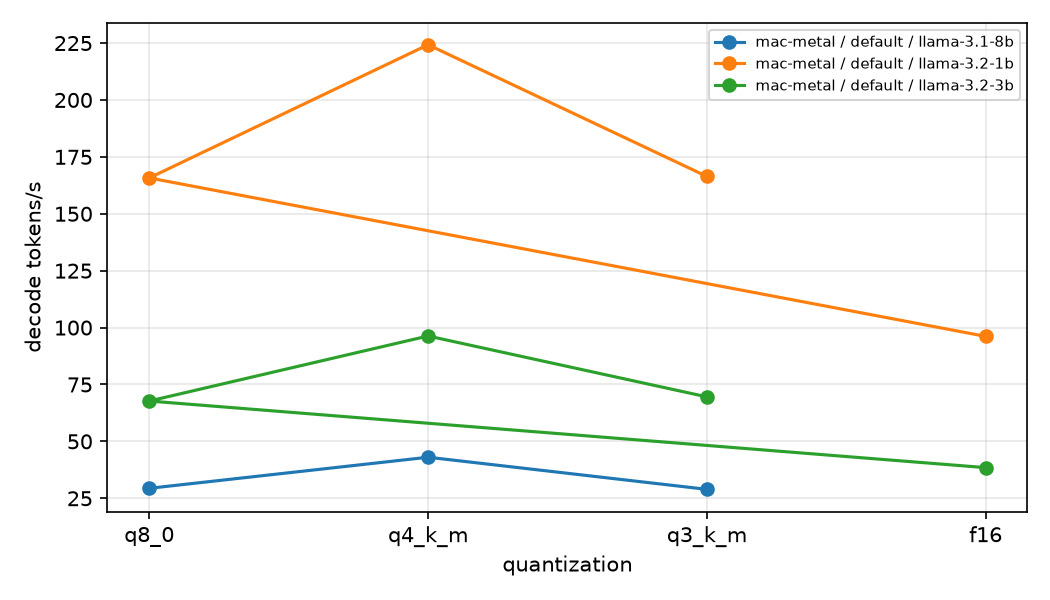
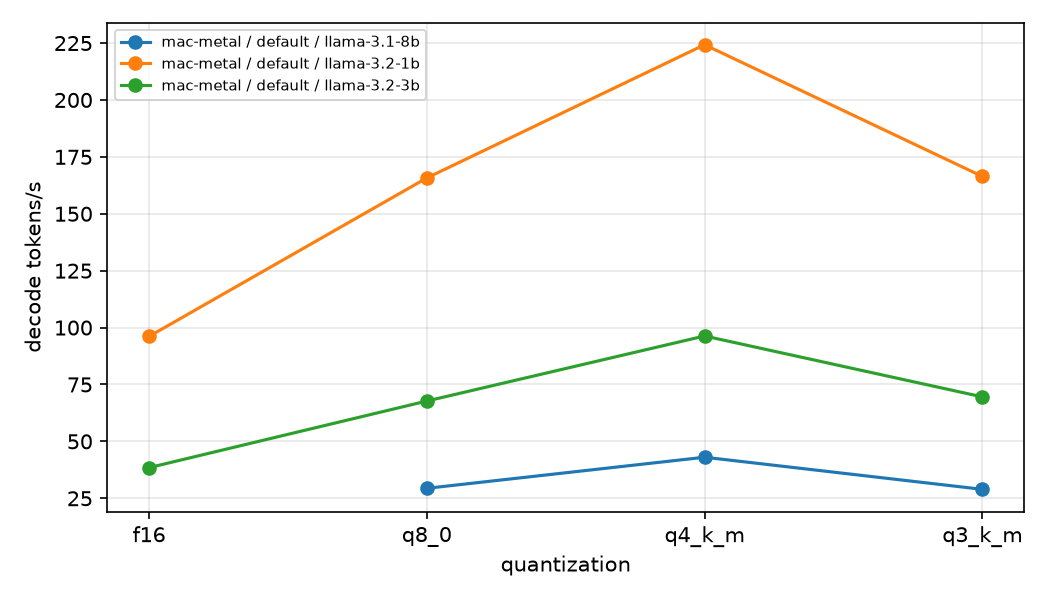
Add Llama-3.1-8B results (pre-made imatrix quants)

diff --git a/report/results.md b/report/results.md
@@ -1,15 +1,16 @@
-| Device | Power mode | Model | Quant | Size (GB) | Prefill t/s | Decode t/s | Mean W | J/token* | PPL |
-|---|---|---|---|---|---|---|---|---|---|
-| mac-metal | default | llama-3.1-8b | q8_0 | 8.53 | 378.6 | 29.4 | 32.89 | 1.119 | 7.12 |
-| mac-metal | default | llama-3.1-8b | q4_k_m | 4.91 | 363.7 | 43.0 | 31.39 | 0.729 | 7.30 |
-| mac-metal | default | llama-3.1-8b | q3_k_m | 4.01 | 341.8 | 28.9 | 35.23 | 1.218 | 7.64 |
-| mac-metal | default | llama-3.2-1b | f16 | 2.47 | 2847.2 | 96.1 | 28.35 | 0.295 | 14.34 |
-| mac-metal | default | llama-3.2-1b | q8_0 | 1.31 | 2717.1 | 165.7 | 32.16 | 0.194 | 14.35 |
-| mac-metal | default | llama-3.2-1b | q4_k_m | 0.80 | 2603.3 | 224.3 | 29.98 | 0.134 | 14.89 |
-| mac-metal | default | llama-3.2-1b | q3_k_m | 0.68 | 2499.6 | 166.4 | 32.83 | 0.197 | 16.91 |
-| mac-metal | default | llama-3.2-3b | f16 | 6.43 | 983.9 | 38.5 | 37.08 | 0.964 | 10.57 |
-| mac-metal | default | llama-3.2-3b | q8_0 | 3.41 | 931.5 | 67.7 | 32.01 | 0.473 | 10.58 |
-| mac-metal | default | llama-3.2-3b | q4_k_m | 2.01 | 895.8 | 96.3 | 30.16 | 0.313 | 10.87 |
-| mac-metal | default | llama-3.2-3b | q3_k_m | 1.68 | 864.7 | 69.6 | 33.90 | 0.487 | 11.81 |
+| Device | Power mode | Model | Quant | Size (GB) | Prefill t/s | Decode t/s | Eff. GB/s** | Mean W | J/token* | PPL |
+|---|---|---|---|---|---|---|---|---|---|---|
+| mac-metal | default | llama-3.1-8b | q8_0 | 8.53 | 378.6 | 29.4 | 251 | 32.89 | 1.119 | 7.12 |
+| mac-metal | default | llama-3.1-8b | q4_k_m | 4.91 | 363.7 | 43.0 | 212 | 31.39 | 0.729 | 7.30 |
+| mac-metal | default | llama-3.1-8b | q3_k_m | 4.01 | 341.8 | 28.9 | 116 | 35.23 | 1.218 | 7.64 |
+| mac-metal | default | llama-3.2-1b | f16 | 2.47 | 2847.2 | 96.1 | 238 | 28.35 | 0.295 | 14.34 |
+| mac-metal | default | llama-3.2-1b | q8_0 | 1.31 | 2717.1 | 165.7 | 218 | 32.16 | 0.194 | 14.35 |
+| mac-metal | default | llama-3.2-1b | q4_k_m | 0.80 | 2603.3 | 224.3 | 179 | 29.98 | 0.134 | 14.89 |
+| mac-metal | default | llama-3.2-1b | q3_k_m | 0.68 | 2499.6 | 166.4 | 114 | 32.83 | 0.197 | 16.91 |
+| mac-metal | default | llama-3.2-3b | f16 | 6.43 | 983.9 | 38.5 | 247 | 37.08 | 0.964 | 10.57 |
+| mac-metal | default | llama-3.2-3b | q8_0 | 3.41 | 931.5 | 67.7 | 231 | 32.01 | 0.473 | 10.58 |
+| mac-metal | default | llama-3.2-3b | q4_k_m | 2.01 | 895.8 | 96.3 | 194 | 30.16 | 0.313 | 10.87 |
+| mac-metal | default | llama-3.2-3b | q3_k_m | 1.68 | 864.7 | 69.6 | 117 | 33.90 | 0.487 | 11.81 |
 
 *J/token = mean power over the bench window / decode tokens-per-second (approximate).
+**Eff. GB/s = decode tokens/s x model size: the weight bytes streamed per second.
